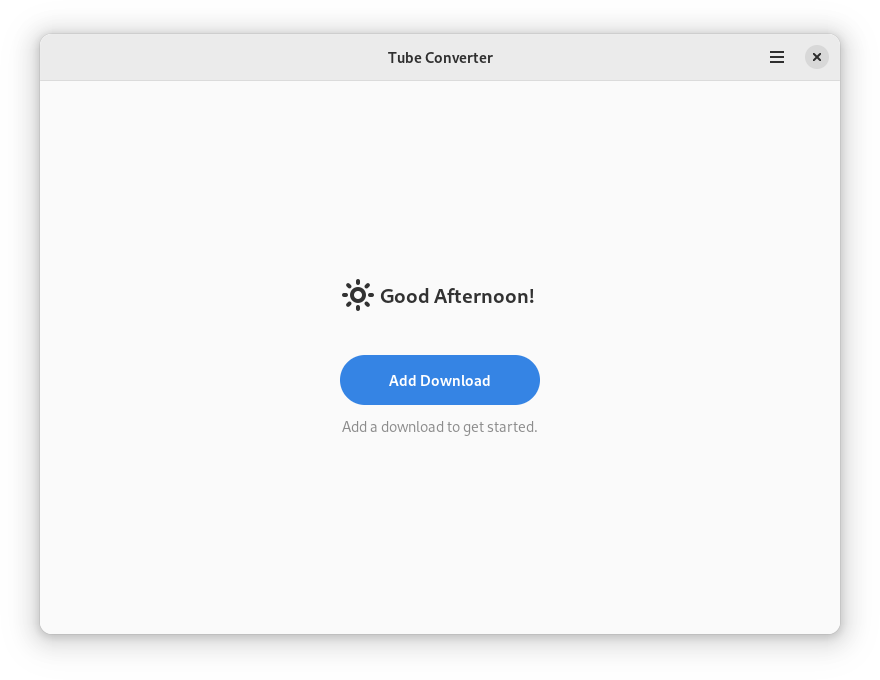
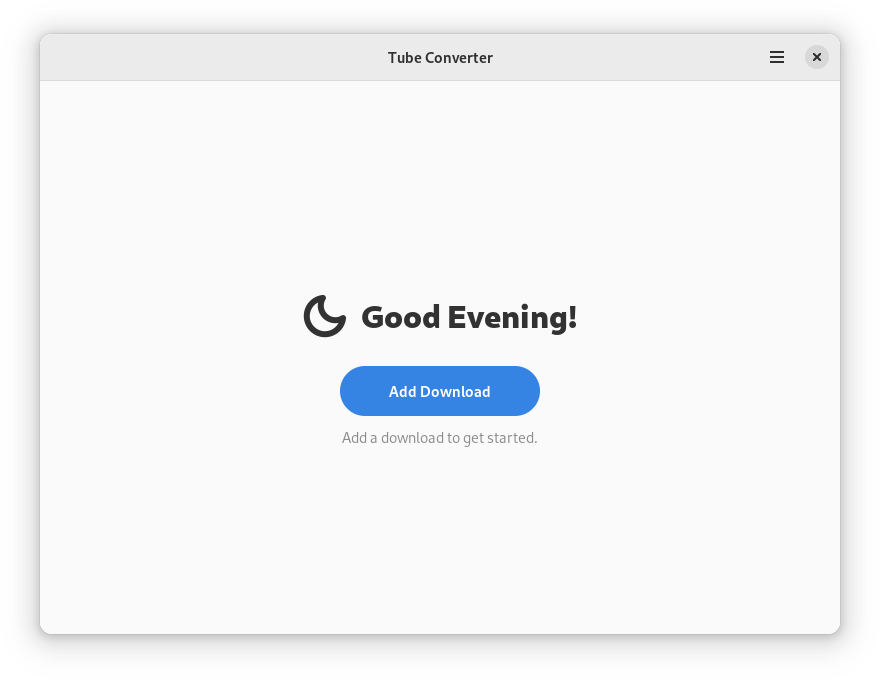
GNOME - Greeting like in Denaro

Changed region(s): [[0.3682, 0.525, 0.6136, 0.6485], [0.3375, 0.4015, 0.675, 0.4941]]

diff --git a/NickvisionTubeConverter.GNOME/Resources/org.nickvision.tubeconverter.css b/NickvisionTubeConverter.GNOME/Resources/org.nickvision.tubeconverter.css
@@ -1,0 +1,4 @@
+.greeting-title {
+  font-size: 32px;
+  font-weight: 900;
+}

diff --git a/NickvisionTubeConverter.GNOME/Program.cs b/NickvisionTubeConverter.GNOME/Program.cs
@@ -2,14 +2,24 @@
 using NickvisionTubeConverter.Shared.Controllers;
 using NickvisionTubeConverter.Shared.Models;
 using System;
+using System.Collections.Generic;
+using System.IO;
+using System.Reflection;
+using System.Runtime.InteropServices;
 
 namespace NickvisionTubeConverter.GNOME;
 
 /// <summary>
 /// The Program 
 /// </summary>
-public class Program
+public partial class Program
 {
+    [LibraryImport("libadwaita-1.so.0", StringMarshalling = StringMarshalling.Utf8)]
+    private static partial nint g_resource_load(string path);
+
+    [LibraryImport("libadwaita-1.so.0", StringMarshalling = StringMarshalling.Utf8)]
+    private static partial void g_resources_register(nint file);
+
     private readonly Adw.Application _application;
     private MainWindow? _mainWindow;
     private MainWindowController _mainWindowController;
@@ -39,6 +49,19 @@ public class Program
         _mainWindowController.AppInfo.IssueTracker = new Uri("https://github.com/nlogozzo/NickvisionTubeConverter/issues/new");
         _mainWindowController.AppInfo.SupportUrl = new Uri("https://github.com/nlogozzo/NickvisionTubeConverter/discussions");
         _application.OnActivate += OnActivate;
+        var prefixes = new List<string> {
+            Directory.GetParent(Directory.GetParent(Path.GetFullPath(Path.GetDirectoryName(Assembly.GetExecutingAssembly().Location)!))!.FullName)!.FullName,
+            Directory.GetParent(Path.GetFullPath(Path.GetDirectoryName(Assembly.GetExecutingAssembly().Location)!))!.FullName,
+            "/usr"
+        };
+        foreach (var prefix in prefixes)
+        {
+            if (File.Exists(prefix + "/share/org.nickvision.tubeconverter/org.nickvision.tubeconverter.gresource"))
+            {
+                g_resources_register(g_resource_load(Path.GetFullPath(prefix + "/share/org.nickvision.tubeconverter/org.nickvision.tubeconverter.gresource")));
+                break;
+            }
+        }
     }
 
     /// <summary>

diff --git a/NickvisionTubeConverter.GNOME/Views/MainWindow.cs b/NickvisionTubeConverter.GNOME/Views/MainWindow.cs
@@ -96,11 +96,14 @@ public partial class MainWindow
         _greetingStartPage = Adw.ButtonContent.New();
         _greetingStartPage.SetIconName(_controller.ShowSun ? "sun-outline-symbolic" : "moon-outline-symbolic");
         _greetingStartPage.SetLabel(_controller.Greeting);
-        _greetingStartPage.AddCssClass("title-2");
         var image = (Gtk.Image)_greetingStartPage.GetFirstChild();
-        image.SetIconSize(Gtk.IconSize.Large);
+        image.SetPixelSize(48);
+        image.SetMarginEnd(6);
+        var label = (Gtk.Label)_greetingStartPage.GetLastChild();
+        label.AddCssClass("greeting-title");
         _greetingStartPage.SetHalign(Gtk.Align.Center);
-        _greetingStartPage.SetMarginBottom(32);
+        _greetingStartPage.SetMarginTop(24);
+        _greetingStartPage.SetMarginBottom(14);
         //Add Download Button Start Page 
         _btnAddDownloadStartPage = Gtk.Button.NewWithLabel(_controller.Localizer["AddDownload"]);
         _btnAddDownloadStartPage.SetHalign(Gtk.Align.Center);
